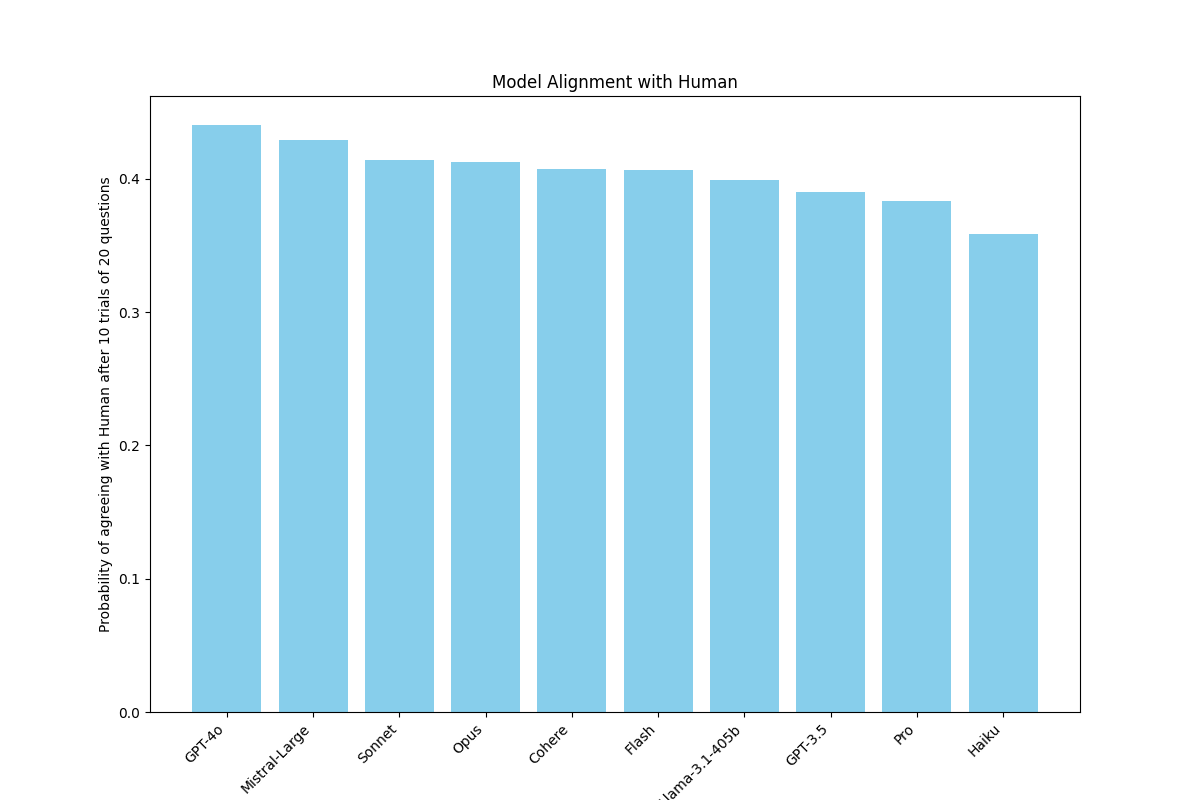
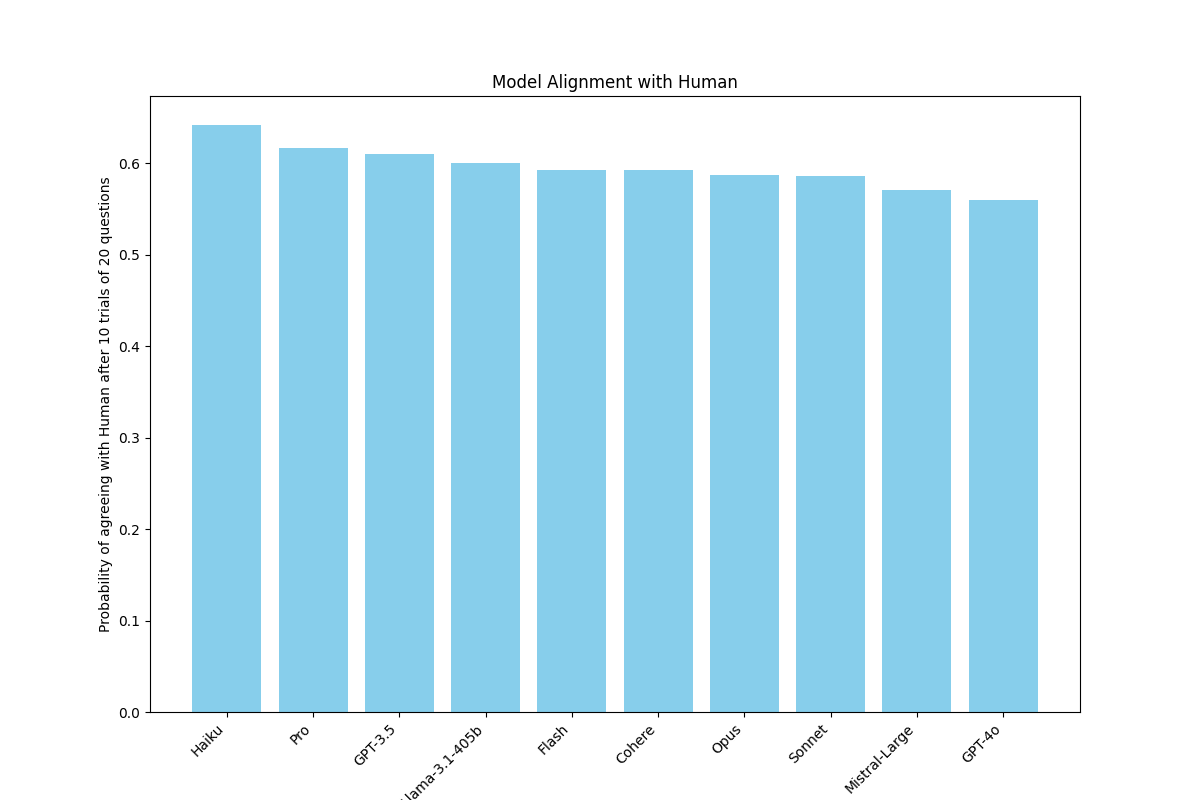
fixed error

diff --git a/evaluator.py b/evaluator.py
@@ -295,7 +295,7 @@ judges_alignements = compute_alignment(judges_end_probas)
 #--------------------------------------------------------------------------------------------------
 # AGREEMENT PROBABILITIES
 
-def weighted_error(human_winprob_vector, human_majwin_mat, judge_majwin_mat):
+def weighted_error_alignement(human_winprob_vector, human_majwin_mat, judge_majwin_mat):
     """
     pairwise win proba error, weighted by the probability of each pairing
     
@@ -318,7 +318,7 @@ def weighted_error(human_winprob_vector, human_majwin_mat, judge_majwin_mat):
     # reduce it into a single number
     # weighting the errors by the probability of a chatbot being the current best
     error = np.dot(human_winprob_vector, error_per_chatbot)
-    return error
+    return 1 - error
 
 def compute_alignment2(winproba_dict, majoritywin_dict):
     # Extract the human model's probability vector
@@ -334,7 +334,7 @@ def compute_alignment2(winproba_dict, majoritywin_dict):
     # Compute the alignment for each model against the human model
     for model, judge_majwin_mat in majoritywin_dict.items():
         if model != human_reference:
-            alignment_dict[model] = weighted_error(human_winprob_vector, human_majwin_mat, judge_majwin_mat)
+            alignment_dict[model] = weighted_error_alignement(human_winprob_vector, human_majwin_mat, judge_majwin_mat)
     
     return alignment_dict
 
